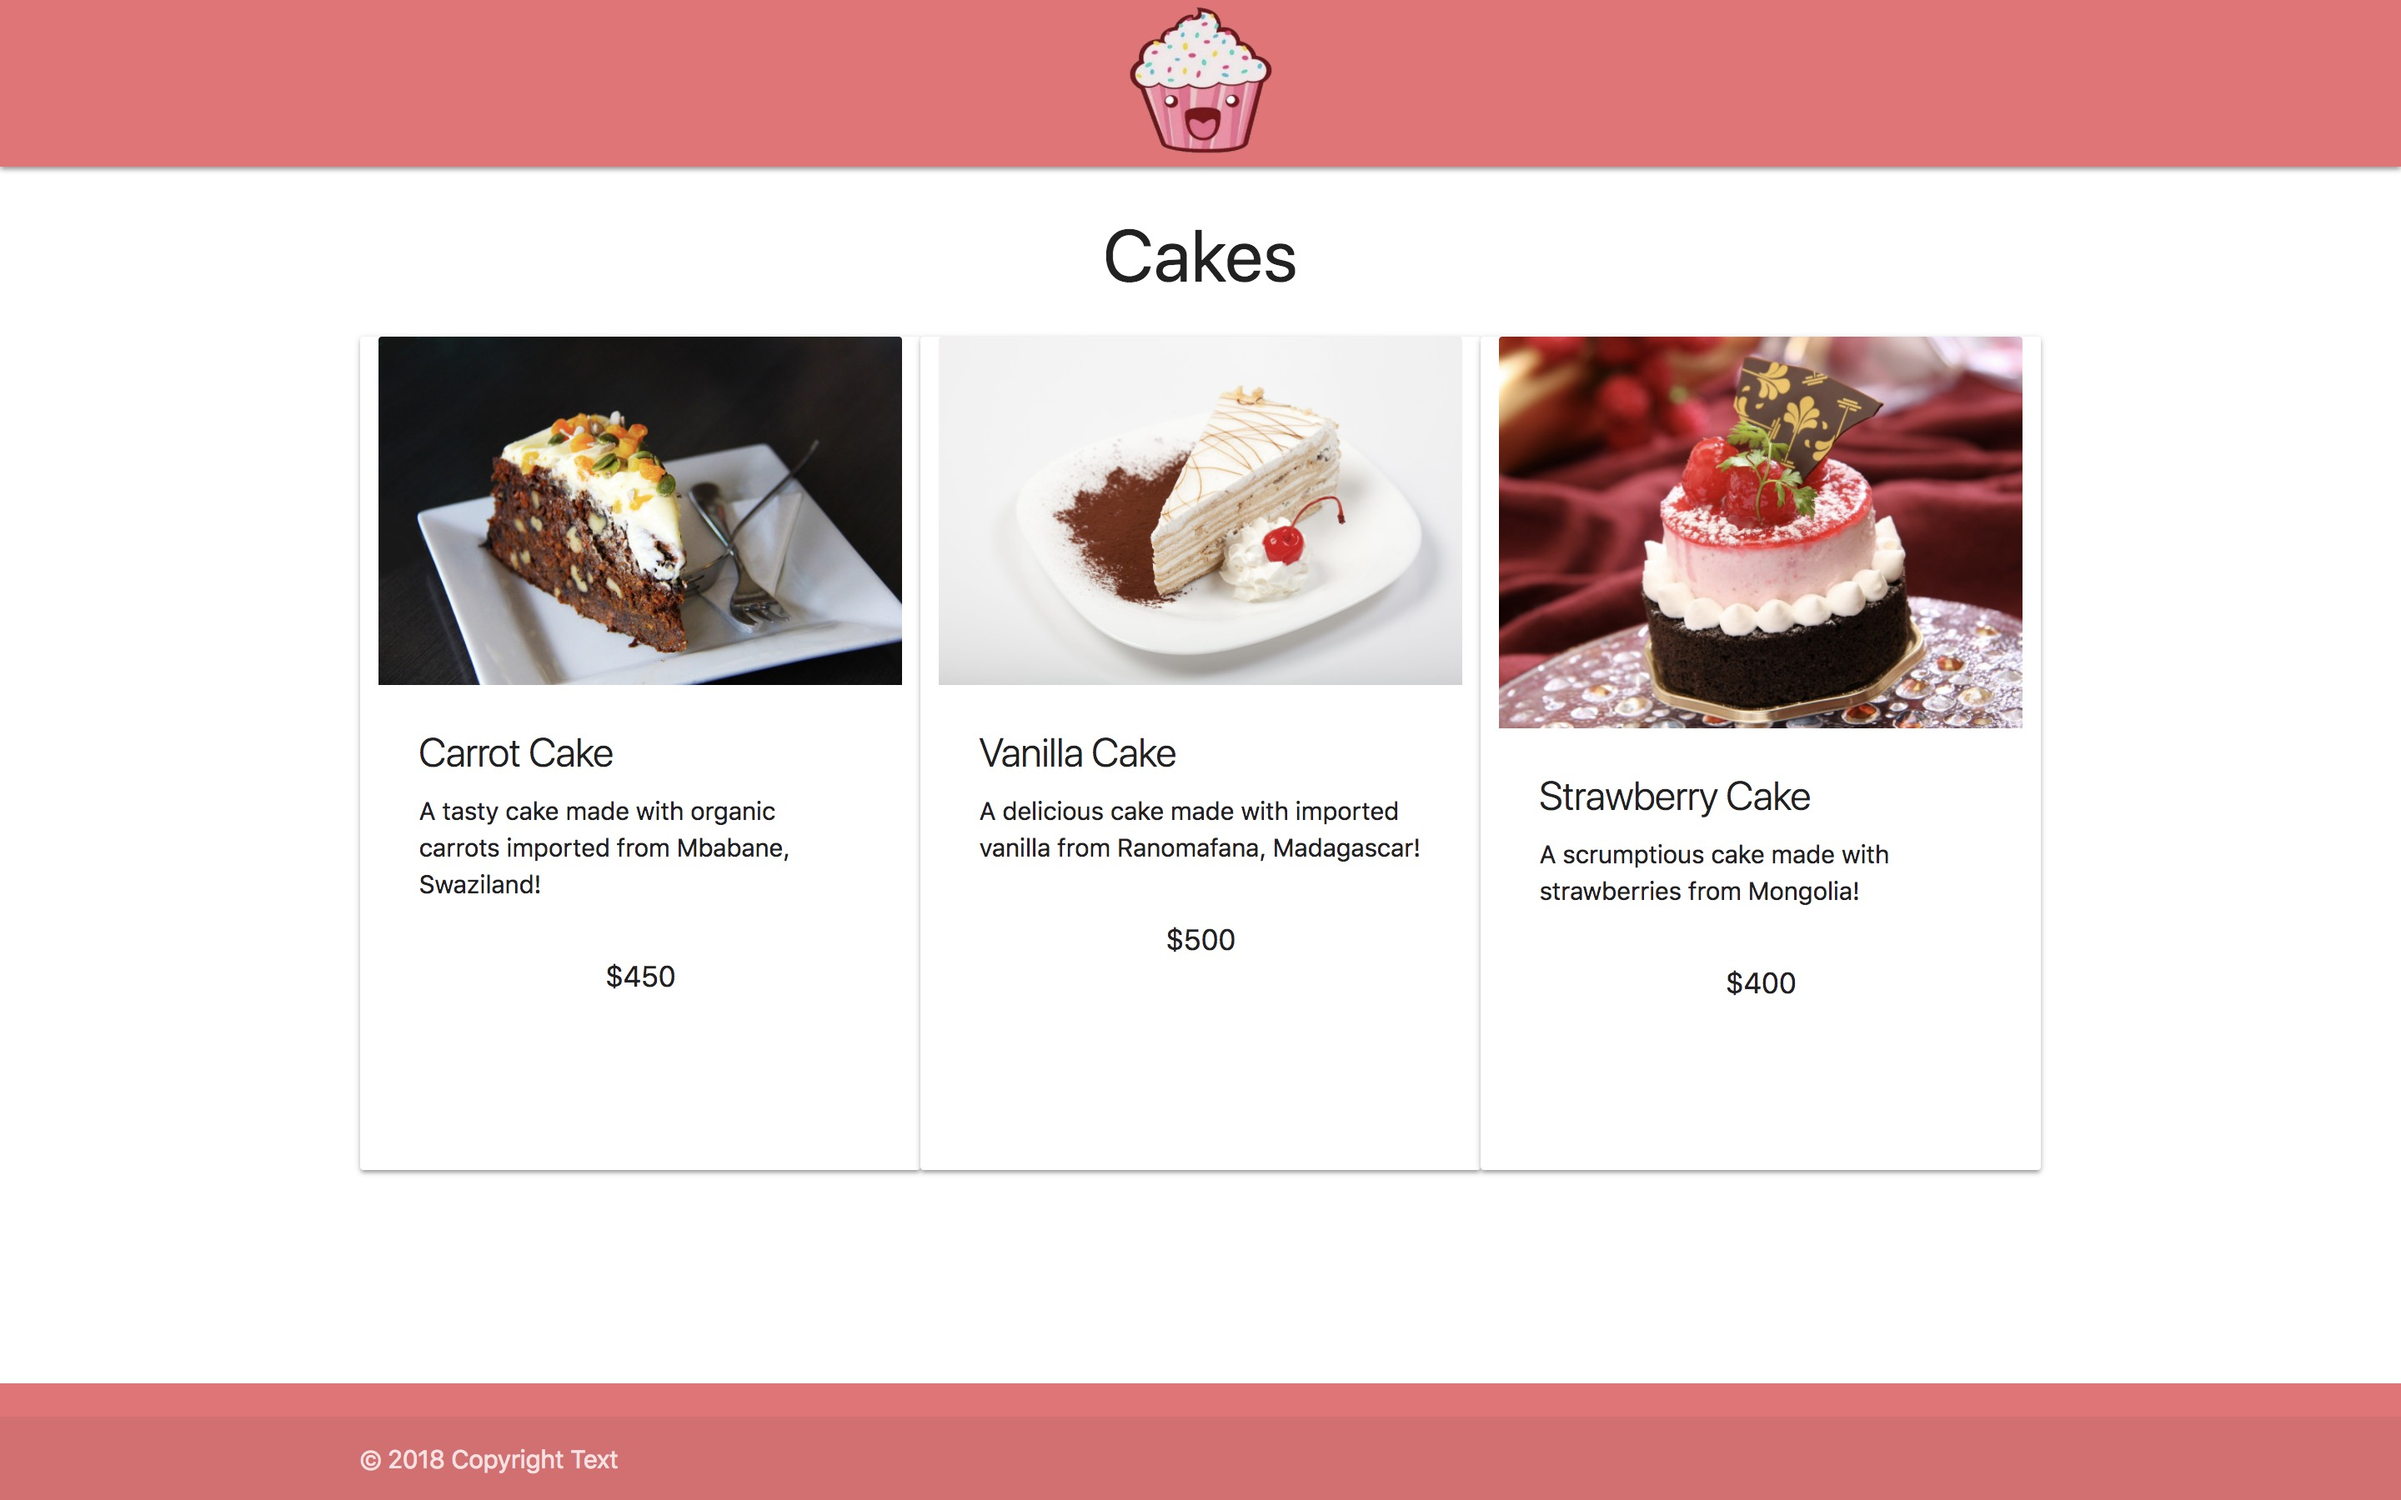
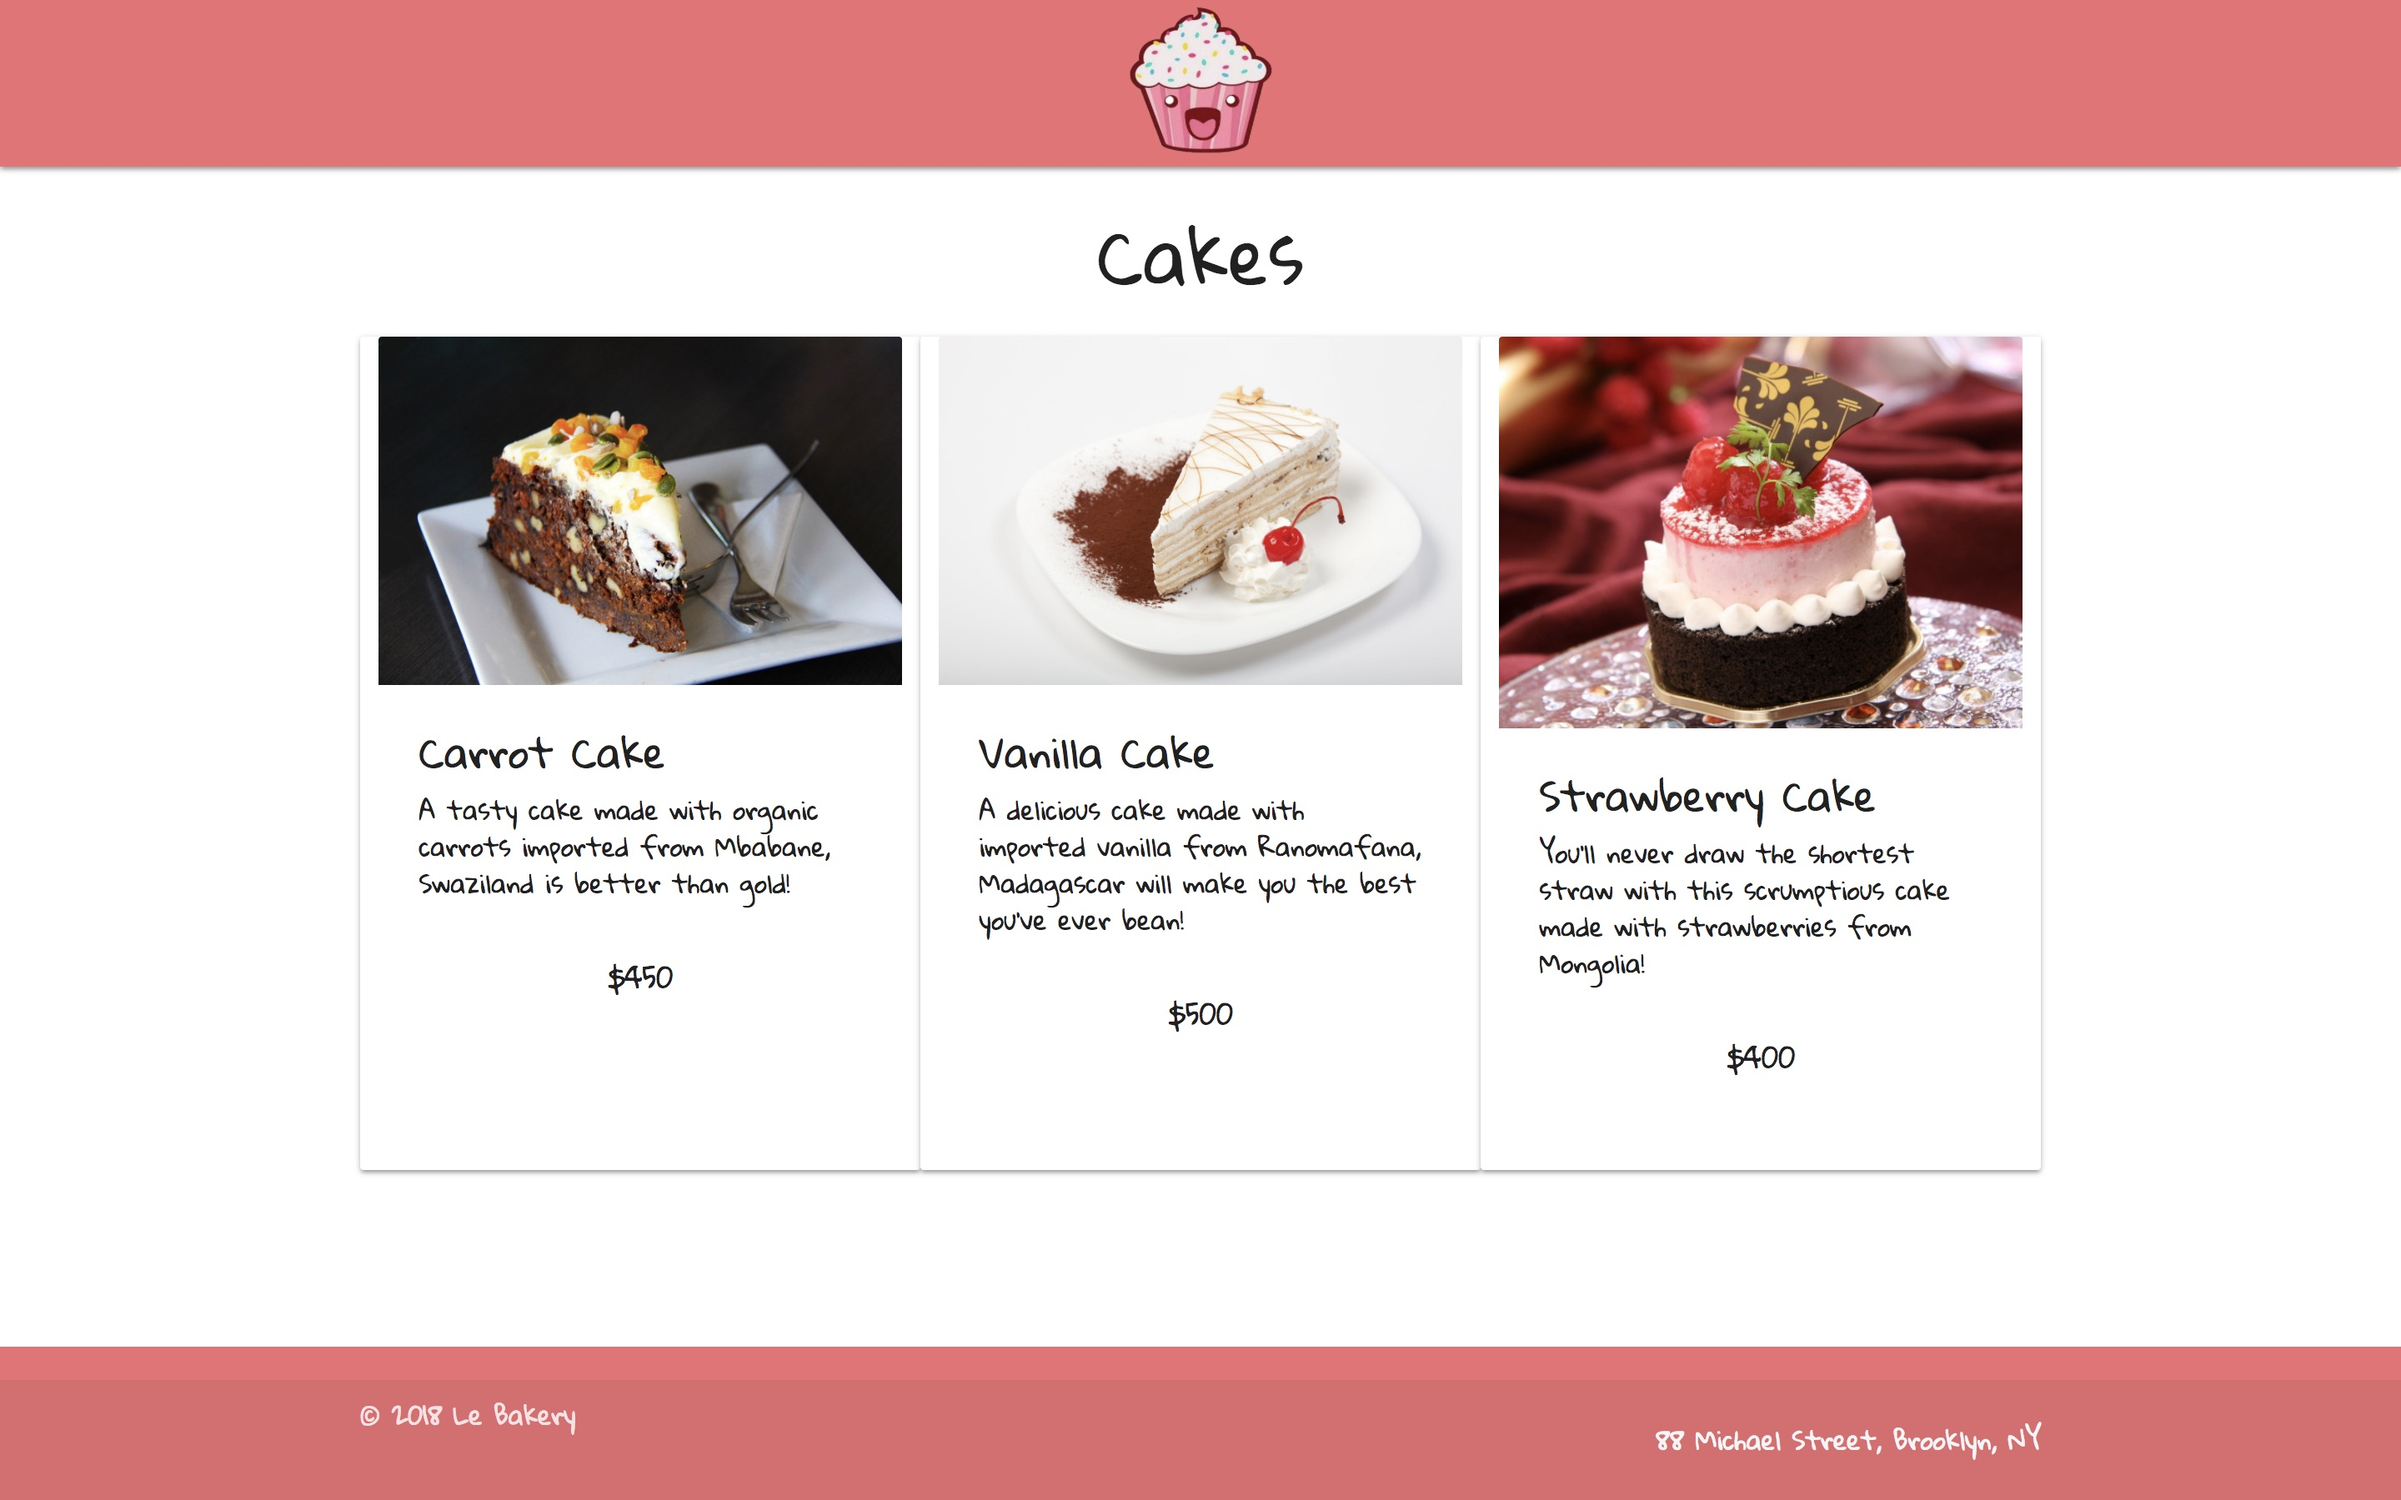
styled a tad, fixed email errors and created items dynamically

diff --git a/public/main.css b/public/main.css
@@ -9,14 +9,8 @@ a {
 h2 {
   color: #20A39E;
 }
-body {
-  font-family: 'Gloria Hallelujah';
-}
 
-.card-pic {
-  height: 250px;
-  width: auto;
-}
+
 #sign-greeting {
   position: absolute;
   margin-top: 190px;
@@ -43,6 +37,7 @@ h2 {
 }
 
 body {
+  font-family: 'Gloria Hallelujah';
   display: flex;
   min-height: 100vh;
   flex-direction: column;

diff --git a/public/main.js b/public/main.js
@@ -1,0 +1,3 @@
+$(document).ready(function(){
+  $('.sidenav').sidenav();
+});

diff --git a/app.rb b/app.rb
@@ -29,21 +29,44 @@ get '/' do
 end
 
 get '/cookies' do
+  @choco_chip = Cookie.new("Chocolate Chip Cookie", "Everyone will want to chip in to finish this favorite cookie! Made with goat's milk chocolate.", "$1.43", "/images/choco_chip_cookie.jpeg")
+  @christmas = Cookie.new("Christmas Cookies", "Yule love these cookies! Celebrate Christmas any time of the year! Made with all natural ingredients from Norway.", "$1.37", "/images/christmas_cookies.jpeg")
+  @green = Cookie.new("Green Cookie", "A super healthy cookie that is also good for the environment. Your friends will turn green from envy! Made with kale, spinach, and iceberg lettuce", "$0.23", "/images/green_cookie.jpeg")
+  @cookie_hash = {
+    cookie_1: @choco_chip,
+    cookie_2: @christmas,
+    cookie_3: @green
+  }
   erb :cookies
 end
 
 get '/muffins' do
+  @cupcake = Muffin.new("Chocolate Cupcake", "A delicious sweet cupcake topped with chocolate icing", '$5', '/images/choco_muffin.jpeg')
+  @chocolate_muffin = Muffin.new("Chocolate Muffin", "A tasty dark chocolate muffin", '$4.34','/images/chocolate_muffin.jpeg')
+  @blueberry = Muffin.new("Blueberry Muffin", "An old favorite that is super tasty. The one time it's good to feel blue! We trained rabbits to pick the blueberries", "$3.21", "/images/blueberry_muffin.jpeg")
+  @muffin_hash = {
+    muffin_1: @cupcake,
+    muffin_2: @chocolate_muffin,
+    muffin_3: @blueberry
+  }
   erb :muffins
 end
 
 get '/cakes' do
+  @carrot = Cake.new("Carrot Cake", "A tasty cake made with organic carrots imported from Mbabane, Swaziland is better than gold!", '$450', "/images/carrot_cake.jpeg")
+  @vanilla = Cake.new("Vanilla Cake", "A delicious cake made with imported vanilla from Ranomafana, Madagascar will make you the best you've ever bean!", '$500', "/images/vanilla_cake.jpeg")
+  @strawberry = Cake.new("Strawberry Cake", "You'll never draw the shortest straw with this scrumptious cake made with strawberries from Mongolia!", '$400', "/images/strawberry_cake.jpeg")
+  @cake_hash = {
+    cake_1: @carrot,
+    cake_2: @vanilla,
+    cake_3: @strawberry
+  }
   erb :cakes
 end
 
 post '/' do
   @new_email = params[:email]
-  if @new_email != ''
-
+  if  @new_email != ''
     @input_name = params[:name]
     from = Email.new(email: 'test@example.com')
     to = Email.new(email: @new_email)
@@ -65,6 +88,7 @@ post '/' do
       mail = Mail.new(from, subject, to, content)
       sg = SendGrid::API.new(api_key: ENV['SENDGRID_API_KEY'])
       response = sg.client.mail._('send').post(request_body: mail.to_json)
+      puts response.status_code
     end
     erb :feedback
   end

diff --git a/classes.rb b/classes.rb
@@ -37,43 +37,3 @@ class Cookie < Pastry
     @pic = pic
   end
 end
-
-#Cakes
-
-$carrot = Cake.new("Carrot Cake", "A tasty cake made with organic carrots imported from Mbabane, Swaziland is better than gold!", '$450', "/images/carrot_cake.jpeg")
-
-$vanilla = Cake.new("Vanilla Cake", "A delicious cake made with imported vanilla from Ranomafana, Madagascar will make you the best you've ever bean!", '$500', "/images/vanilla_cake.jpeg")
-
-$strawberry = Cake.new("Strawberry Cake", "You'll never draw the shortest straw with this scrumptious cake made with strawberries from Mongolia!", '$400', "/images/strawberry_cake.jpeg")
-
-#Muffins
-
-$cupcake = Muffin.new("Chocolate Cupcake", "A delicious sweet cupcake topped with chocolate icing", '$5', '/images/choco_muffin.jpeg')
-
-$chocolate_muffin = Muffin.new("Chocolate Muffin", "A tasty dark chocolate muffin", '$4.34','/images/chocolate_muffin.jpeg')
-
-$blueberry = Muffin.new("Blueberry Muffin", "An old favorite that is super tasty. The one time it's good to feel blue! We trained rabbits to pick the blueberries", "$3.21", "/images/blueberry_muffin.jpeg")
-
-$choco_chip = Cookie.new("Chocolate Chip Cookie", "Everyone will want to chip in to finish this favorite cookie! Made with goat's milk chocolate.", "$1.43", "/images/choco_chip_cookie.jpeg")
-
-$christmas = Cookie.new("Christmas Cookies", "Yule love these cookies! Celebrate Christmas any time of the year! Made with all natural ingredients from Norway.", "$1.37", "/images/christmas_cookies.jpeg")
-
-$green = Cookie.new("Green Cookie", "A super healthy cookie that is also good for the environment. Your friends will turn green from envy! Made with kale, spinach, and iceberg lettuce", "$0.23", "/images/green_cookie.jpeg")
-
-$cake_hash = {
-  cake_1: $carrot,
-  cake_2: $vanilla,
-  cake_3: $strawberry
-}
-
-$cookie_hash = {
-  cookie_1: $choco_chip,
-  cookie_2: $christmas,
-  cookie_3: $green
-}
-
-$muffin_hash = {
-  muffin_1: $cupcake,
-  muffin_2: $chocolate_muffin,
-  muffin_3: $blueberry
-}
